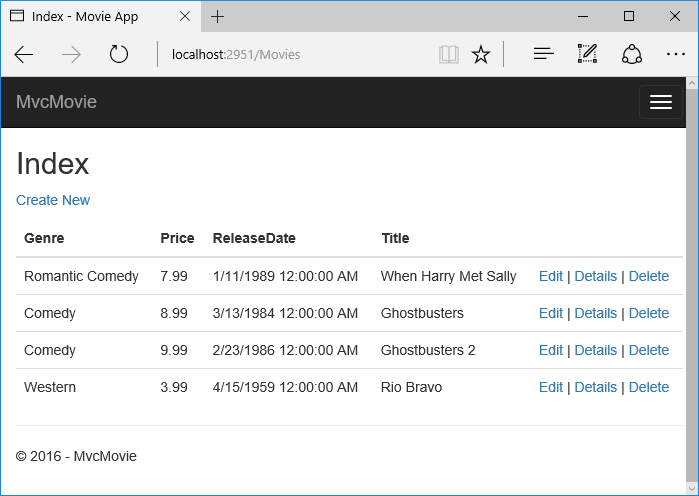
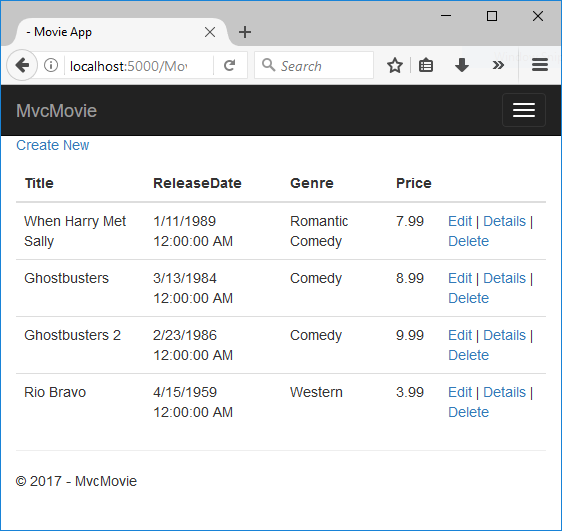
xplat version of working with SQL mvc intro (#3190)

diff --git a/aspnetcore/tutorials/first-mvc-app-xplat/start-mvc/sample/MvcMovie/Models/Seed.cs b/aspnetcore/tutorials/first-mvc-app-xplat/start-mvc/sample/MvcMovie/Models/Seed.cs
@@ -1,0 +1,58 @@
+using Microsoft.EntityFrameworkCore;
+using Microsoft.Extensions.DependencyInjection;
+using System;
+using System.Linq;
+
+namespace MvcMovie.Models
+{
+    public static class SeedData
+    {
+        public static void Initialize(IServiceProvider serviceProvider)
+        {
+            using (var context = new MvcMovieContext(
+                serviceProvider.GetRequiredService<DbContextOptions<MvcMovieContext>>()))
+            {
+                // Look for any movies.
+                if (context.Movie.Any())
+                {
+                    return;   // DB has been seeded
+                }
+
+                context.Movie.AddRange(
+                     new Movie
+                     {
+                         Title = "When Harry Met Sally",
+                         ReleaseDate = DateTime.Parse("1989-1-11"),
+                         Genre = "Romantic Comedy",
+                         Price = 7.99M
+                     },
+
+                     new Movie
+                     {
+                         Title = "Ghostbusters ",
+                         ReleaseDate = DateTime.Parse("1984-3-13"),
+                         Genre = "Comedy",
+                         Price = 8.99M
+                     },
+
+                     new Movie
+                     {
+                         Title = "Ghostbusters 2",
+                         ReleaseDate = DateTime.Parse("1986-2-23"),
+                         Genre = "Comedy",
+                         Price = 9.99M
+                     },
+
+                   new Movie
+                   {
+                       Title = "Rio Bravo",
+                       ReleaseDate = DateTime.Parse("1959-4-15"),
+                       Genre = "Western",
+                       Price = 3.99M
+                   }
+                );
+                context.SaveChanges();
+            }
+        }
+    }
+}

diff --git a/aspnetcore/tutorials/first-mvc-app-xplat/start-mvc/sample/MvcMovie/Startup.cs b/aspnetcore/tutorials/first-mvc-app-xplat/start-mvc/sample/MvcMovie/Startup.cs
@@ -65,6 +65,8 @@ namespace MvcMovie
                     name: "default",
                     template: "{controller=Home}/{action=Index}/{id?}");
             });
+             SeedData.Initialize(app.ApplicationServices);
+
         }
     }
 }

diff --git a/aspnetcore/tutorials/first-mvc-app-xplat/working-with-sql.md b/aspnetcore/tutorials/first-mvc-app-xplat/working-with-sql.md
@@ -1,0 +1,65 @@
+---
+title: Working with SQLite | Microsoft Docs
+author: rick-anderson
+description: Using SQLite with a simple MVC app
+keywords: ASP.NET Core,SQLite, SQL Server 
+ms.author: riande
+manager: wpickett
+ms.date: 04/07/2017
+ms.topic: article
+ms.assetid: 1638d9b8-7c98-424d-8641-1638e23bf541
+ms.technology: aspnet
+ms.prod: asp.net-core
+uid: tutorials/first-mvc-app-xplat/working-with-sql
+---
+# Working with SQLite
+
+By [Rick Anderson](https://twitter.com/RickAndMSFT)
+
+The `MvcMovieContext` object handles the task of connecting to the database and mapping `Movie` objects to database records. The database context is registered with the [Dependency Injection](xref:fundamentals/dependency-injection) container in the `ConfigureServices` method in the *Startup.cs* file:
+
+[!code-csharp[Main](start-mvc/sample/MvcMovie/Startup.cs?name=snippet2&highlight=6-8)]
+
+
+## SQLite
+
+The [SQLite](https://www.sqlite.org/) website states:
+
+  SQLite is a self-contained, high-reliability, embedded, full-featured, public-domain, SQL database engine. SQLite is the most used database engine in the world.
+
+There are many third party tools you can download to manage and view a SQLite database. The image below is from [DB Browser for SQLite](http://sqlitebrowser.org/). If you have a favorite SQLite tool, leave a LiveFyre comment on what you like about it.
+
+![DB Browser for SQLite showing movie db](working-with-sql/_static/dbb.png)
+
+## Seed the database
+
+Create a new class named `SeedData` in the *Models* folder. Replace the generated code with the following:
+
+[!code-csharp[Main](../../tutorials/first-mvc-app/start-mvc/sample/MvcMovie/Models/SeedData.cs?name=snippet_1)]
+
+If there are any movies in the DB, the seed initializer returns.
+
+```csharp
+if (context.Movie.Any())
+{
+    return;   // DB has been seeded.
+}
+```
+
+Add the seed initializer to the end of the `Configure` method in the *Startup.cs* file:
+
+[!code-csharp[Main](../../tutorials/first-mvc-app/start-mvc/sample/MvcMovie/Startup.cs?highlight=9&name=snippet_seed)]
+
+### Test the app
+
+Delete all the records in the DB (So the seed method will run). Stop and start the app to seed the database.
+   
+The app shows the seeded data.
+
+![MVC Movie application open browser showing movie data](../../tutorials/first-mvc-app/working-with-sql/_static/m55.png)
+
+>[!div class="step-by-step"]
+[Previous](adding-model.md)
+<!--
+[Next](controller-methods-views.md)  
+-->

diff --git a/aspnetcore/tutorials/first-mvc-app-xplat/index.md b/aspnetcore/tutorials/first-mvc-app-xplat/index.md
@@ -20,12 +20,13 @@ This series of tutorials will teach you the basics of building an ASP.NET Core M
 2. [Adding a controller](adding-controller.md)
 3. [Adding a view](adding-view.md)
 4. [Adding a model](adding-model.md)
+5. [Working with SQLite](working-with-sql.md)
 
 This is a work in progress. See the [Visual Studio versions ](xref:tutorials/first-mvc-app/index) of the remaining tutorials.
 
 <!--
 
-5. [Working with SQL Server LocalDB](working-with-sql.md)
+
 6. [Controller methods and views](controller-methods-views.md)
 7. [Adding Search](search.md)
 8. [Adding a New Field](new-field.md)
